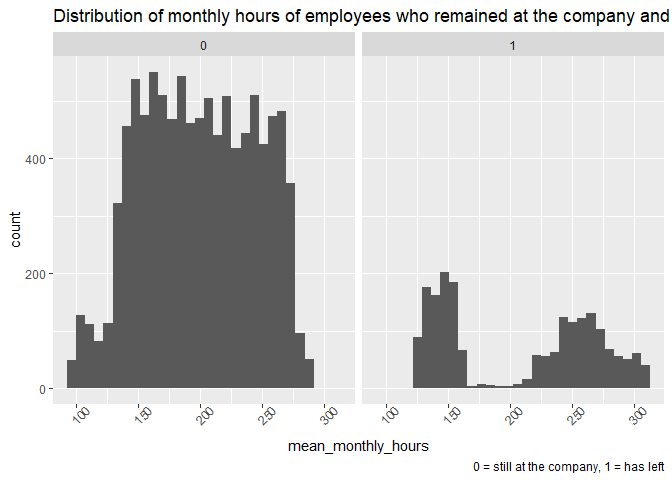
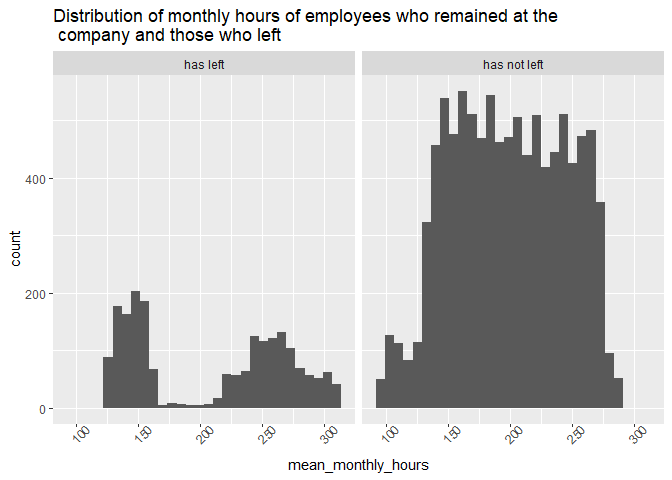
updated notebook and charts

diff --git a/Turnover_Report.md b/Turnover_Report.md
@@ -628,12 +628,12 @@ to those who haven’t.
 
 ``` r
 data <- employee_profile_renamed %>%
-  group_by(has_employee_left = as.character(left)) %>%
+  group_by(has_employee_left = as.factor(recode(left, '0' = 'No', '1' = 'Yes'))) %>%
   summarise(count_left = n())
 
 ggplot(data, aes(x = "", y = count_left, fill = has_employee_left)) +
   geom_col() + 
-  labs(title= "Percentage of employees who have left and those still at the company", caption = "0 = still at the company \t     1 = left") +
+  labs(title= "Percentage of employees who have left and those still at the company") +
   coord_polar(theta = "y") + 
   theme_void()
 ```
@@ -711,7 +711,7 @@ Those who have left or those still at the company?
 
 ``` r
 hours <- employee_profile_renamed %>% 
-  group_by(has_employee_left = as.character(left)) %>%
+  group_by(has_employee_left = as.factor(recode(left, '0' = 'No', '1' = 'Yes'))) %>%
   summarise(average_hours = mean(mean_monthly_hours))
 
 hours
@@ -719,9 +719,9 @@ hours
 
     ## # A tibble: 2 × 2
     ##   has_employee_left average_hours
-    ##   <chr>                     <dbl>
-    ## 1 0                          199.
-    ## 2 1                          208.
+    ##   <fct>                     <dbl>
+    ## 1 No                         199.
+    ## 2 Yes                        208.
 
 ``` r
 ggplot(hours) +
@@ -737,10 +737,9 @@ than their counterparts who remained at the company.
 ``` r
 ggplot(data = employee_profile_renamed) +
   geom_histogram(mapping = aes(x = mean_monthly_hours)) +
-  facet_wrap(~left) +
+  facet_wrap(~as.factor(recode(left, '0' = 'has not left', '1' = 'has left'))) +
   theme(axis.text.x = element_text(angle = 45)) +
-  labs(title="Distribution of monthly hours of employees who remained at the company and those who left",
-       caption=paste0("0 = still at the company, 1 = has left"))
+  labs(title="Distribution of monthly hours of employees who remained at the \n company and those who left")
 ```
 
     ## `stat_bin()` using `bins = 30`. Pick better value with `binwidth`.
